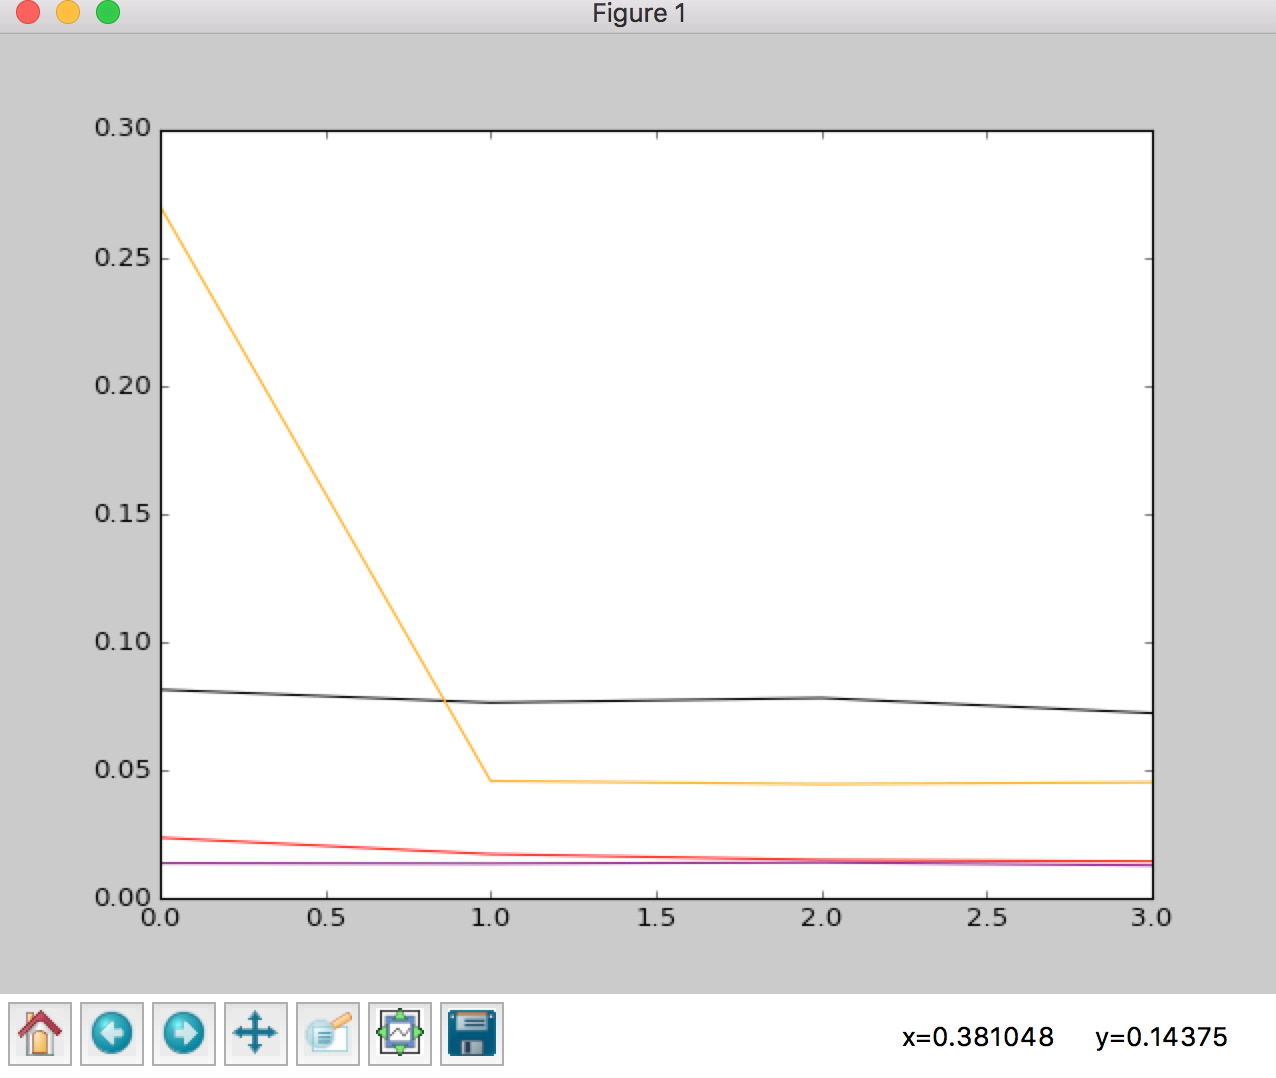
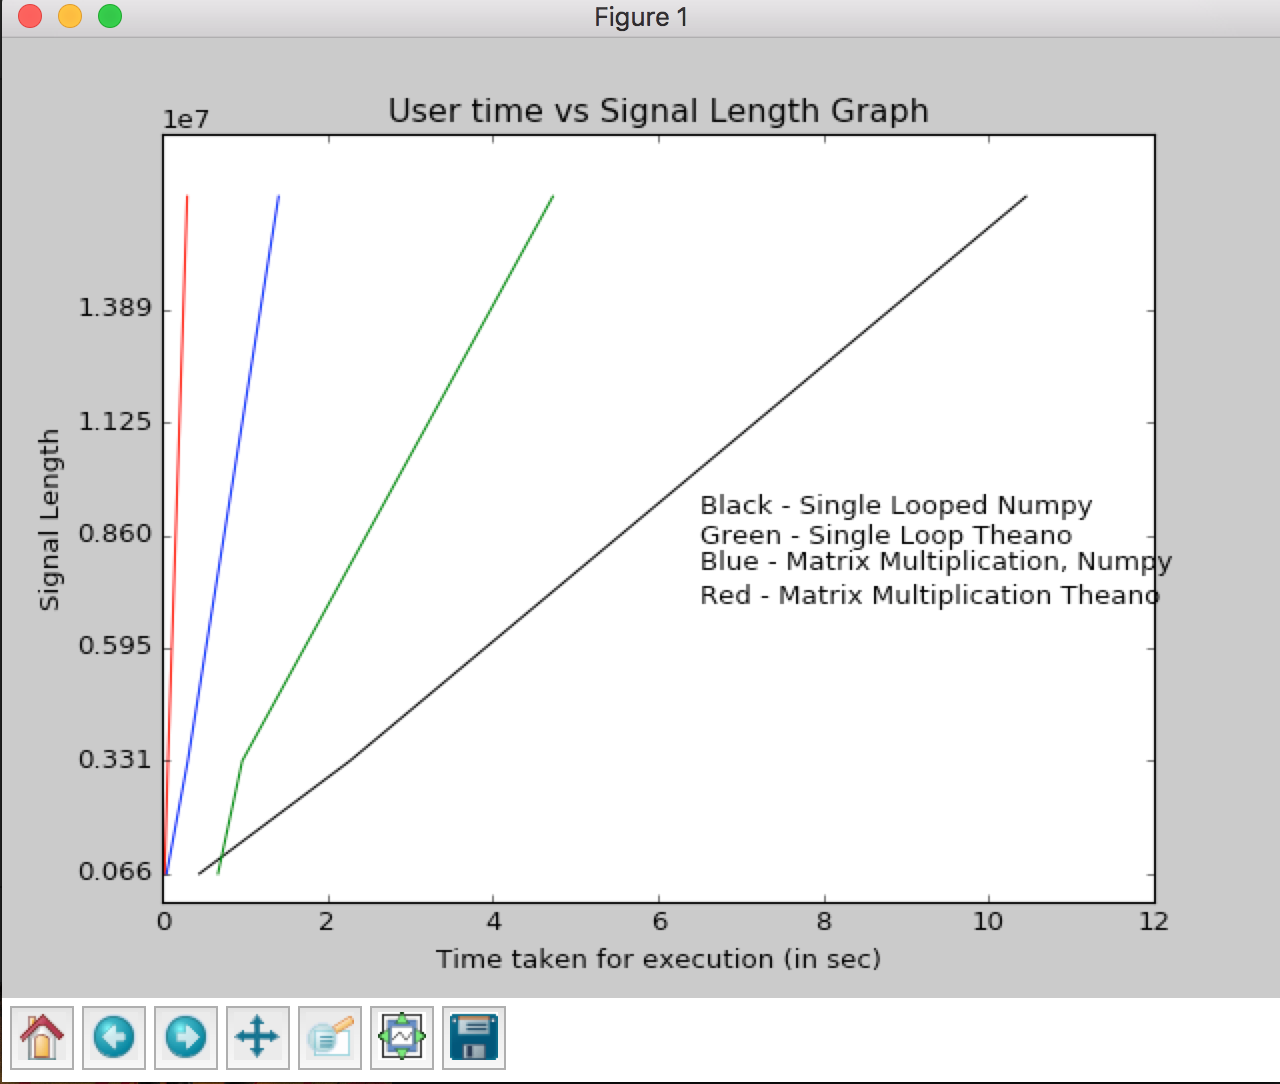
Prettier Graphs

diff --git a/compute_stfts.py b/compute_stfts.py
@@ -155,7 +155,6 @@ def cqt_two_without_kernel(signal, s_freq, channels=1):
         
 # windows[l_2].extend([0] * (len() - (len(my_list))))
 
-@profile
 def cqt_single(signal, sample_freq, channels=1):
     ''' 
     Compute the CQT of a signal with a single loop
@@ -176,7 +175,7 @@ def cqt_single(signal, sample_freq, channels=1):
     print("User time for single loop computation: " + str(post.ru_utime - prior.ru_utime))
 
     return output, user_time
-@profile
+
 def matrix_cqt(signal, sample_freq, channels=1):
     '''
     Direct computation of CQT using numpy.
@@ -231,7 +230,7 @@ def theano_stft(signal, width, s_freq, channels=1):
 
     return output, freq, time
  
-@profile
+
 def vectorized_theano(signal, sample_freq, channels=1):
     '''
     The Code is currently being tested. It's not fully implemented.
@@ -256,7 +255,6 @@ def vectorized_theano(signal, sample_freq, channels=1):
     print("User time for vectorized theano: " + str(post.ru_utime - prior.ru_utime))
     return output, user_time
 
-@profile
 def matrix_theano(signal, sample_freq, channels=1):
     '''
     Direct computation of CQT without any loop using theano
@@ -290,11 +288,31 @@ def generate_signal(signal_base, mul_factor=1):
     final_signal = pure_signal + noise
     return final_signal
 
-def plot_usertime_graph(signal_base, mul_factor):
+def plot_graph():
+    fig, ax = plt.subplots()
+    plt.title("Variable channel vs Time Graph")
+    ax.plot(channels, single_cqt, 'black', label="black")
+    ax.plot(channels, theano_vectorized, 'green', label="green")
+    ax.plot(channels, theano_matrix, 'red', label="red")
+    ax.plot(channels, direct_cqt, 'blue', label="blue")
+    ax.ticklabel_format(useOffset=False)
+    ax.axis([1, 4, 0, 0.5])
+    ax.set_xlabel('Number of Channels')
+    ax.set_ylabel('Time taken for execution (in sec)')
+    plt.xticks(np.arange(1, 5, 1))
+    plt.annotate("Black - Single Looped Numpy", xy=(2.3, 0.4))
+    plt.annotate("Green - Single Loop Theano", xy=(2.3, 0.42))
+    plt.annotate("Blue - Matrix Multiplication, Numpy", xy=(2.3, 0.44))
+    plt.annotate("Red - Matrix Multiplication Theano", xy=(2.3, 0.46))
+    plt.ylim()
+    plt.show()
+
+def usertime_graph(signal_base, mul_factor):
     mul_count = 0
     three_loop, two_kernel, two_w_kernel = [], [], []
     single_cqt, theano_vectorized, theano_matrix = [], [], []
     direct_cqt = []
+    signal_length = []
     while  True:
         if mul_count >= 3:
             break
@@ -307,13 +325,26 @@ def plot_usertime_graph(signal_base, mul_factor):
         theano_matrix.append(matrix_theano(final_signal, 44100)[1])
         direct_cqt.append(matrix_cqt(final_signal, 44100)[1])
         signal_base = signal_base * mul_factor
+        signal_length.append(signal_base)
         mul_count += 1
-    plt.plot(single_cqt, 'black', theano_vectorized, 'orange', theano_matrix, 'red', direct_cqt, 'purple')
-    ax = plt.gca()
-    ax.set_yticklabels(ax.get_yticks())
+    fig, ax = plt.subplots()
+    plt.title("User time vs Signal Length Graph")
+    ax.plot(signal_length, single_cqt   , 'black', label="black")
+    ax.plot(signal_length, theano_vectorized, 'green', label="green")
+    ax.plot(signal_length, theano_matrix, 'red', label="red")
+    ax.plot(signal_length, direct_cqt, 'blue', label="blue")
+    ax.ticklabel_format(useOffset=False)
+    ax.set_xlabel('Signal Length')
+    ax.set_ylabel('Time taken for execution (in sec)')
+    plt.xticks(np.arange(signal_length[0], signal_length[-1] , signal_length[1] - signal_length[0]))
+    plt.annotate("Black - Single Looped Numpy", xy=(653226, 6.5))
+    plt.annotate("Green - Single Loop Theano", xy=(653226, 7.5))
+    plt.annotate("Blue - Matrix Multiplication, Numpy", xy=(653226, 8.5))
+    plt.annotate("Red - Matrix Multiplication Theano", xy=(653226, 9.5))
+    plt.ylim()
     plt.show()
 
-def plot_channel_graph(final_signal, channels):
+def channel_graph(final_signal, channels):
     three_loop, two_kernel, two_w_kernel = [], [], []
     single_cqt, theano_vectorized, theano_matrix = [], [], []
     direct_cqt = []
@@ -325,20 +356,32 @@ def plot_channel_graph(final_signal, channels):
         theano_vectorized.append(vectorized_theano(final_signal, 44100, i)[1])
         theano_matrix.append(matrix_theano(final_signal, 44100, i)[1])
         direct_cqt.append(matrix_cqt(final_signal, 44100, i)[1])
-    print(theano_vectorized)
-    plt.plot(single_cqt, 'black', theano_vectorized, 'orange', theano_matrix, 'red', direct_cqt, 'purple')
-    ax = plt.gca()
-    ax.set_yticklabels(ax.get_yticks())
+
+    fig, ax = plt.subplots()
+    plt.title("Variable channel vs Time Graph")
+    ax.plot(channels, single_cqt, 'black', label="black")
+    ax.plot(channels, theano_vectorized, 'green', label="green")
+    ax.plot(channels, theano_matrix, 'red', label="red")
+    ax.plot(channels, direct_cqt, 'blue', label="blue")
+    ax.ticklabel_format(useOffset=False)
+    ax.axis([1, 4, 0, 0.5])
+    ax.set_xlabel('Number of Channels')
+    ax.set_ylabel('Time taken for execution (in sec)')
+    plt.xticks(np.arange(1, 5, 1))
+    plt.annotate("Black - Single Looped Numpy", xy=(2.3, 0.4))
+    plt.annotate("Green - Single Loop Theano", xy=(2.3, 0.42))
+    plt.annotate("Blue - Matrix Multiplication, Numpy", xy=(2.3, 0.44))
+    plt.annotate("Red - Matrix Multiplication Theano", xy=(2.3, 0.46))
+    plt.ylim()
     plt.show()
 
 if __name__ == '__main__':
     signal_base = 132300
     mul_factor = 5
-    plot_usertime_graph(signal_base, mul_factor)
+
     channels = np.arange(1, 5)
-    plot_channel_graph(generate_signal(signal_base), channels)
-    plot_usertime_graph(signal_base, mul_factor)
+    channel_graph(generate_signal(signal_base), channels)
+    usertime_graph(signal_base, mul_factor)
 
     # pylab.imshow(np.log(np.abs(theano_matrix[0])), origin='lower', aspect='auto')
     # pylab.show()
-
